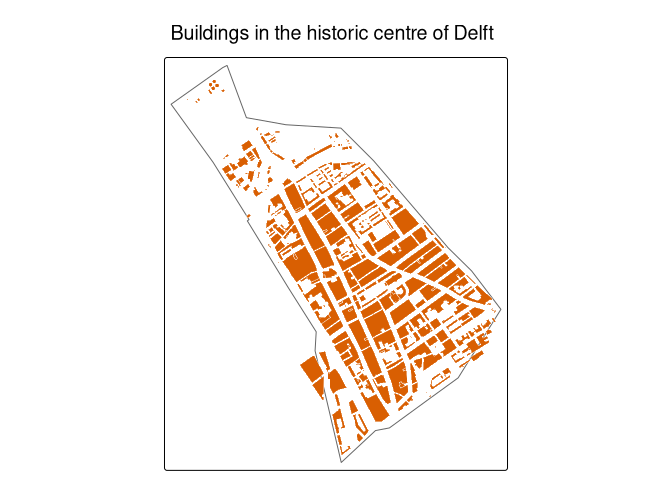
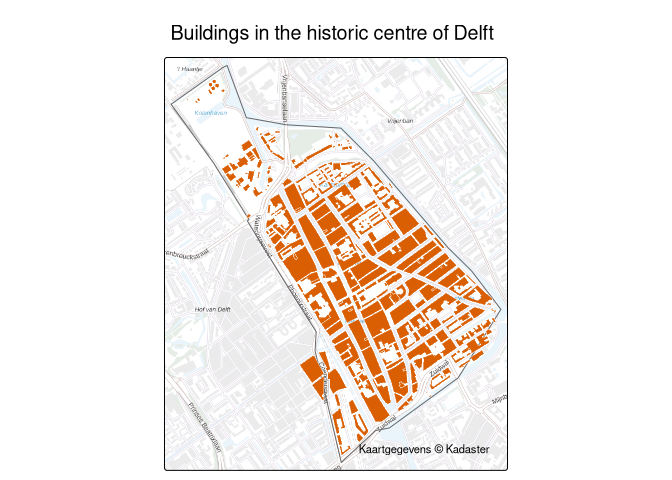
docs: use the PDOK basemap in the README and articles

diff --git a/README.md b/README.md
@@ -57,11 +57,13 @@ buildings <- pdok_read("brt/top10nl", "gebouw_vlak", filter_by = binnenstad)
 
 # Map it
 tmap_mode("plot")
-tm_shape(binnenstad) +
+tm_basemap(pdok_basemap("grijs")) +
+  tm_shape(binnenstad) +
   tm_borders(col = "grey40") +
   tm_shape(buildings) +
   tm_polygons(fill = "#d95f02", col = "white", lwd = 0.4) +
-  tm_title("Buildings in the historic centre of Delft")
+  tm_title("Buildings in the historic centre of Delft") +
+  tm_credits("Kaartgegevens © Kadaster")
 ```
 
 <img src="man/figures/README-example-1.png" alt="" width="100%" />